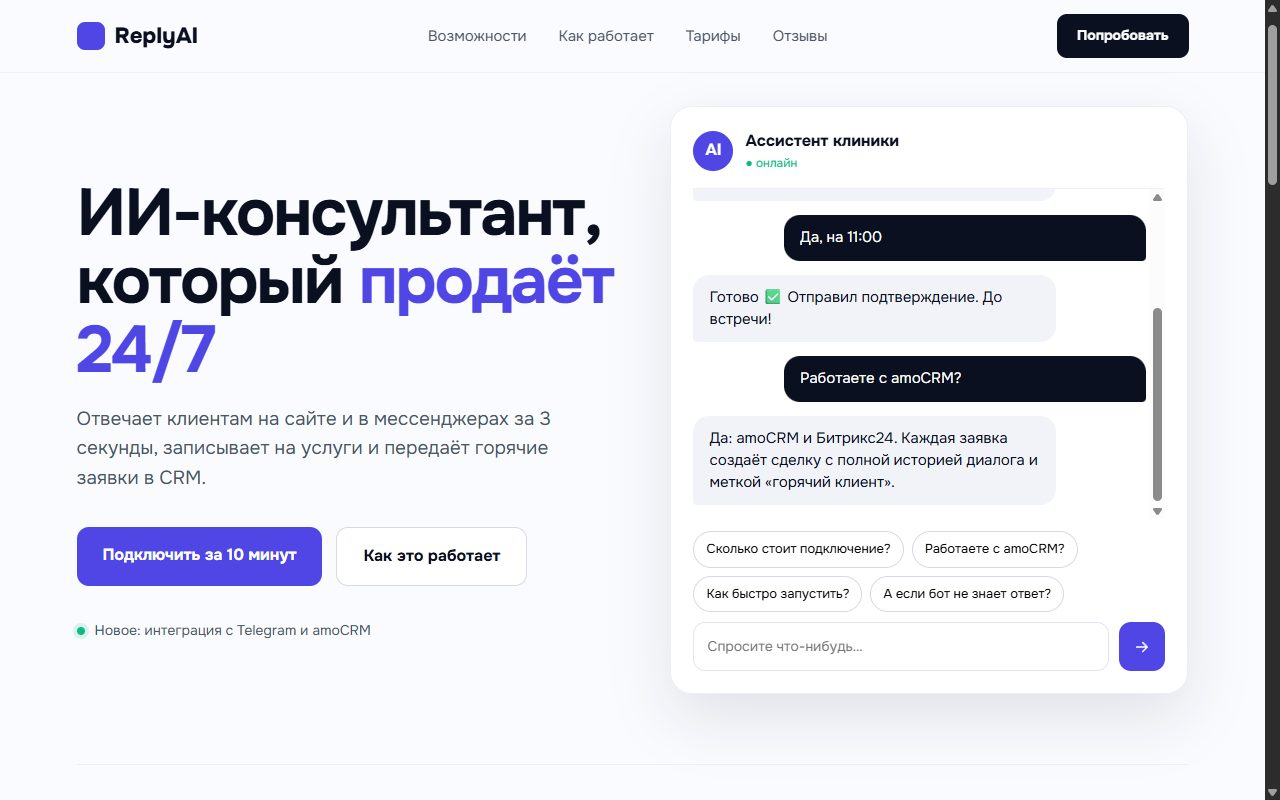
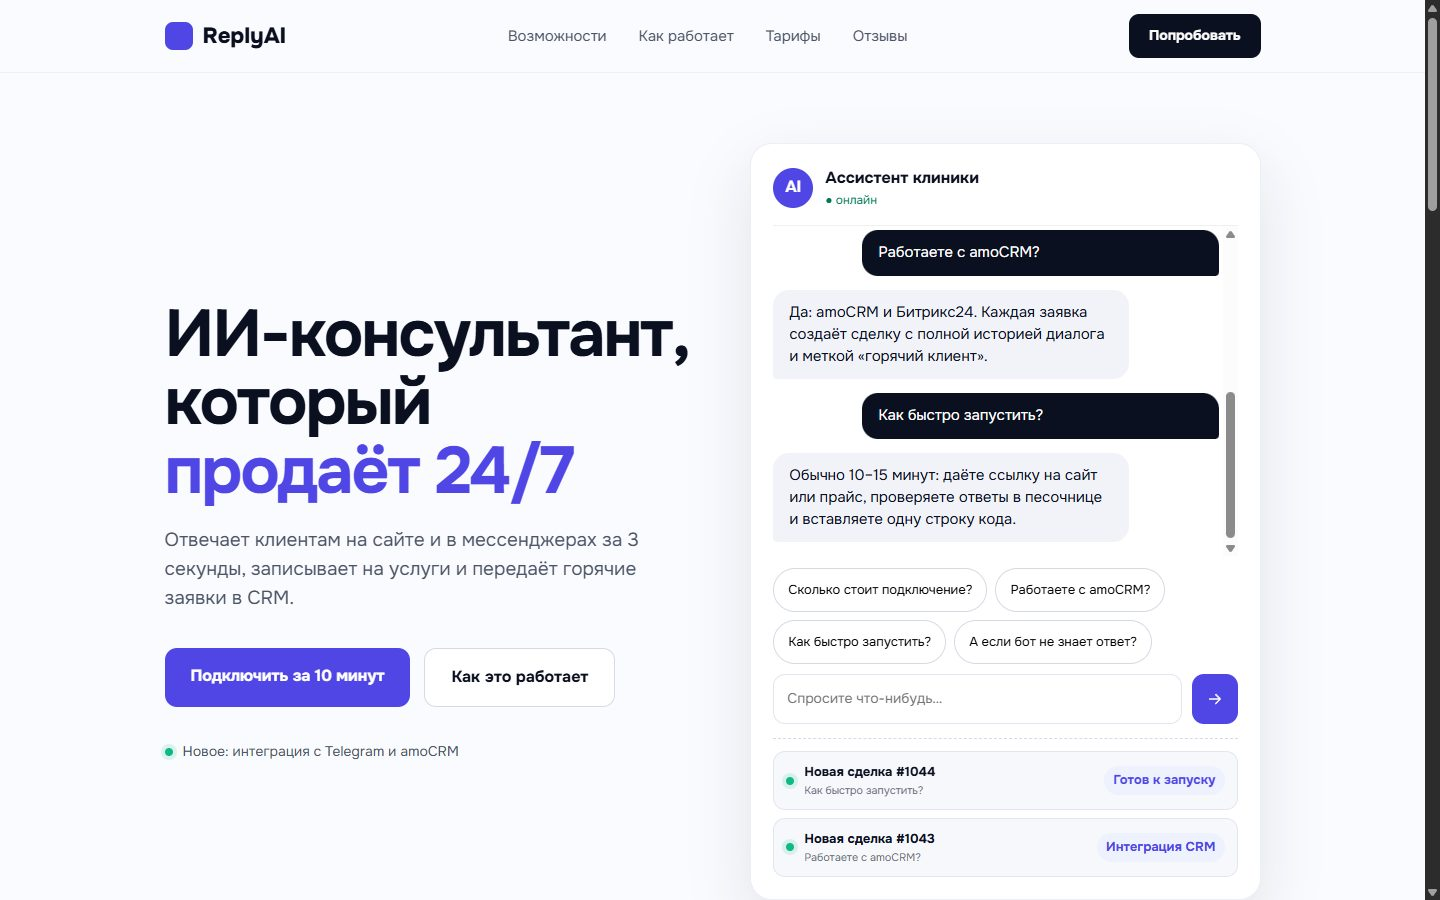
Update case study: signature interactions, audit results, fresh screenshots

diff --git a/case-study.html b/case-study.html
@@ -54,11 +54,11 @@ footer{padding:40px 0 60px;border-top:1px solid var(--line);color:var(--muted);f
 
 <section><h2>Для кого</h2><ul class="cards"><li><h3>Владелец клиники или салона</h3><p>Теряет заявки ночью и в выходные. Хочет увидеть живой диалог на своей тематике.</p></li><li><h3>Маркетолог</h3><p>Считает стоимость лида. Смотрит интеграции с CRM и тарифы с годовой скидкой.</p></li><li><h3>Администратор</h3><p>Боится, что бот «наговорит лишнего». Важен сценарий, когда бот не знает ответа.</p></li></ul></section>
 
-<section><h2>Ключевые решения</h2><ul class="dec"><li><h3>Продукт на первом экране</h3><p>Вместо иллюстрации — работающий чат клиники: диалог записи проигрывается сам, а под ним кнопки с частыми вопросами. Посетитель проверяет продукт до того, как прочитает хоть один абзац.</p></li><li><h3>Отказ от шаблонов категории</h3><p>Убрал ряд «+38% / 3 сек / 24/7», градиентный текст и сетку из шести одинаковых карточек с эмодзи. Возможности стали списком с линиями и собственными линейными иконками, заголовок закреплён слева при прокрутке.</p></li><li><h3>Один акцентный цвет</h3><p>Индиго используется только для действий и выделения смысла. Тёмный блок тарифов создаёт паузу в ритме страницы и визуально отделяет решение о покупке.</p></li><li><h3>Честный сценарий провала</h3><p>Среди быстрых вопросов есть «А если бот не знает ответ?» — снимает главное возражение прямо в демо.</p></li></ul></section>
+<section><h2>Ключевые решения</h2><ul class="dec"><li><h3>Продукт на первом экране</h3><p>Вместо иллюстрации — работающий чат клиники: диалог записи проигрывается сам, а под ним кнопки с частыми вопросами. Посетитель проверяет продукт до того, как прочитает хоть один абзац.</p></li><li><h3>Отказ от шаблонов категории</h3><p>Убрал ряд «+38% / 3 сек / 24/7», градиентный текст и сетку из шести одинаковых карточек с эмодзи. Возможности стали списком с линиями и собственными линейными иконками, заголовок закреплён слева при прокрутке.</p></li><li><h3>Один акцентный цвет</h3><p>Индиго используется только для действий и выделения смысла. Тёмный блок тарифов создаёт паузу в ритме страницы и визуально отделяет решение о покупке.</p></li><li><h3>Честный сценарий провала</h3><p>Среди быстрых вопросов есть «А если бот не знает ответ?» — снимает главное возражение прямо в демо.</p></li><li><h3>Показать результат, а не обещать</h3><p>Каждый понятный боту вопрос превращается в карточку «Новая сделка» под чатом: посетитель своими глазами видит, как диалог становится заявкой в CRM.</p></li></ul></section>
 
-<figure class="duo"><div><img src="case/detail.jpg" alt="Демо-чат: быстрые вопросы и ответ ассистента про интеграцию с CRM" loading="lazy"><figcaption>Демо-чат: быстрые вопросы и ответ ассистента про интеграцию с CRM</figcaption></div><div><img src="case/mobile.jpg" alt="Мобильная версия" loading="lazy"><figcaption>Мобильная версия</figcaption></div></figure>
+<figure class="duo"><div><img src="case/detail.jpg" alt="Демо-чат: ответы ассистента и сделки, созданные из диалога" loading="lazy"><figcaption>Демо-чат: ответы ассистента и сделки, созданные из диалога</figcaption></div><div><img src="case/mobile.jpg" alt="Мобильная версия" loading="lazy"><figcaption>Мобильная версия</figcaption></div></figure>
 
-<section class="cols"><h2>Что работает</h2><ul class="feat"><li>Интерактивный демо-чат: четыре быстрых вопроса и свободный ввод; ответы подбираются по ключевым словам, есть индикатор «печатает» и честный ответ-заглушка для неизвестных вопросов.</li><li>Переключатель «Помесячно / За год −20%» пересчитывает все тарифы и показывает сумму за год и экономию в рублях.</li><li>Ввод в чате защищён от HTML-инъекций; лента сообщений прокручивается к последнему ответу и озвучивается экранными дикторами.</li><li>Форма заявки со всеми состояниями: ошибка с названием поля, отправка, успех.</li></ul></section>
+<section class="cols"><h2>Что работает</h2><ul class="feat"><li>Интерактивный демо-чат: четыре быстрых вопроса и свободный ввод; ответ «думает», а потом печатается по словам, как у настоящей модели. Для неизвестных вопросов есть честная заглушка.</li><li>Распознанный вопрос создаёт карточку сделки с меткой («Интеграция CRM», «Готов к запуску») и перелетает под чат через View Transitions API.</li><li>Переключатель «Помесячно / За год −20%» пересчитывает все тарифы и показывает сумму за год и экономию в рублях.</li><li>Ввод в чате защищён от HTML-инъекций; лента сообщений прокручивается к последнему ответу и озвучивается экранными дикторами.</li><li>Форма заявки со всеми состояниями: ошибка с названием поля, отправка, успех.</li></ul></section>
 
 <section class="cols"><h2>Качество</h2><div>
 <p>Сайт свёрстан на чистых HTML, CSS и JavaScript: без фреймворков и сборки. Страница открывается мгновенно и легко переносится на любой хостинг или CMS.</p>
@@ -67,8 +67,10 @@ footer{padding:40px 0 60px;border-top:1px solid var(--line);color:var(--muted);f
 <li>Доступность: видимый фокус, подписи у всех полей, роли и живые области для экранных дикторов, учёт настройки «уменьшить движение».</li>
 <li>Контент виден без JavaScript: анимации появления включаются только когда скрипт загрузился.</li>
 <li>SEO и превью ссылок: описание страницы, Open Graph-картинка, иконка вкладки.</li>
+<li>Lighthouse на мобильном: доступность, лучшие практики и SEO — 100 из 100. Кнопки на телефоне не меньше 44 px, без горизонтальной прокрутки на 375 px.</li>
+<li>Палитра вынесена в CSS-переменные — цвета бренда меняются в одном месте.</li>
 </ul>
-<div class="stat"><b>23 КБ HTML, 6 КБ JavaScript, 0 фото</b>Страница весит меньше одного среднего изображения: вся графика — CSS и инлайн-SVG.</div>
+<div class="stat"><b>26 КБ HTML, ≈8 КБ JavaScript, 0 фото</b>Страница весит меньше одного среднего изображения: вся графика — CSS и инлайн-SVG.</div>
 </div></section>
 
 <section class="cols"><h2>Что дальше</h2><ul class="feat"><li>Подключить демо-чат к реальной модели с ограничением тематики.</li><li>Добавить калькулятор окупаемости: заявки в месяц × средний чек.</li><li>Проверить гипотезу: страница с интерактивным демо конвертирует в заявку лучше статичной.</li></ul></section>
